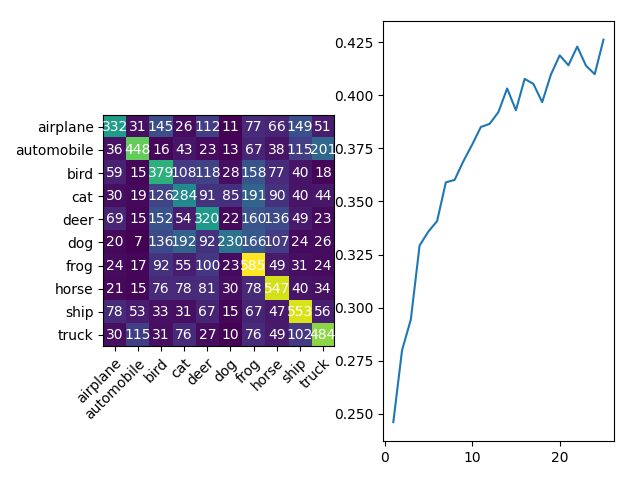
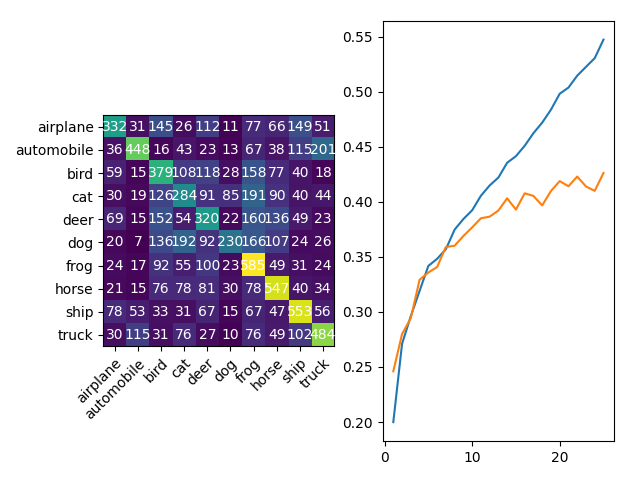
final

diff --git a/main.py b/main.py
@@ -132,7 +132,8 @@ history = model.fit(x_train, y_train,
                     batch_size=512)
 print(history.history)
 
-training_accuracies = history.history["val_accuracy"]
+val_accuracies = history.history["val_accuracy"]
+training_accuracies = history.history["accuracy"]
 # Report Results on the test datasets
 test_loss, test_acc = model.evaluate(x_test, y_test, verbose=2)
 print("\nTest Accuracy: ", test_acc)
@@ -225,5 +226,6 @@ plt.savefig("Confusion Matrix.png")
 fig.tight_layout()
 
 ax[1].plot(range(1, args.epochs + 1), training_accuracies)
+ax[1].plot(range(1, args.epochs + 1), val_accuracies)
 plt.savefig("accuracy.png")
 ###########################MAGIC ENDS HERE##########################
